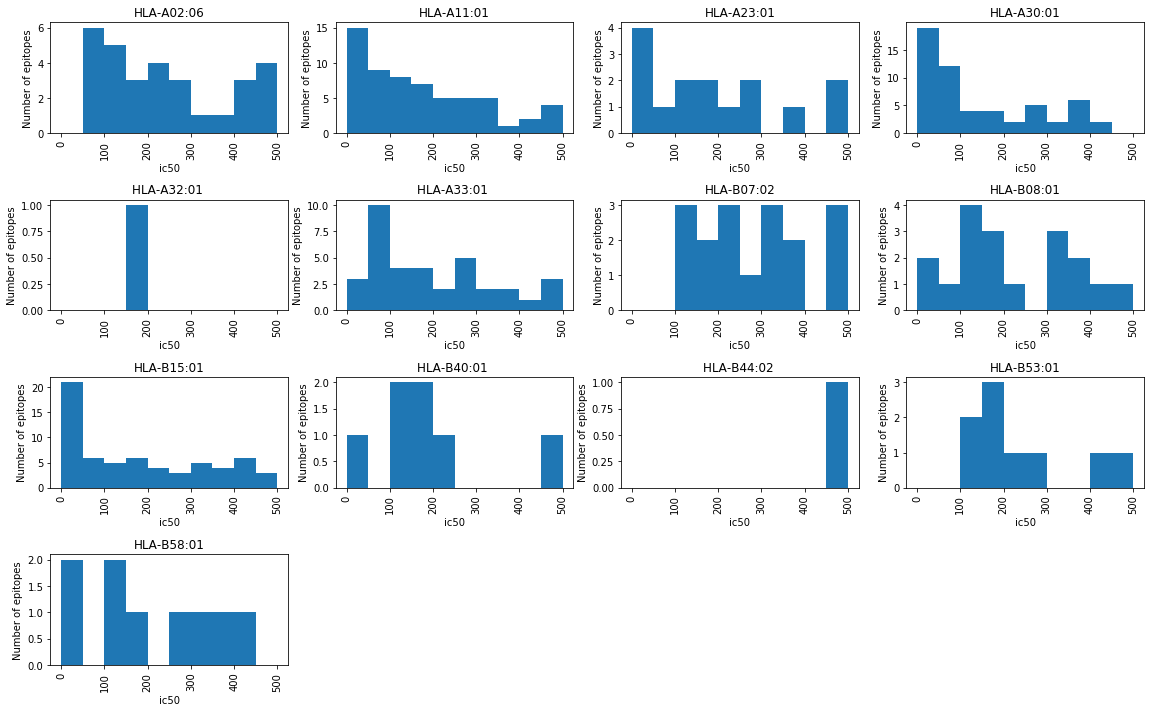
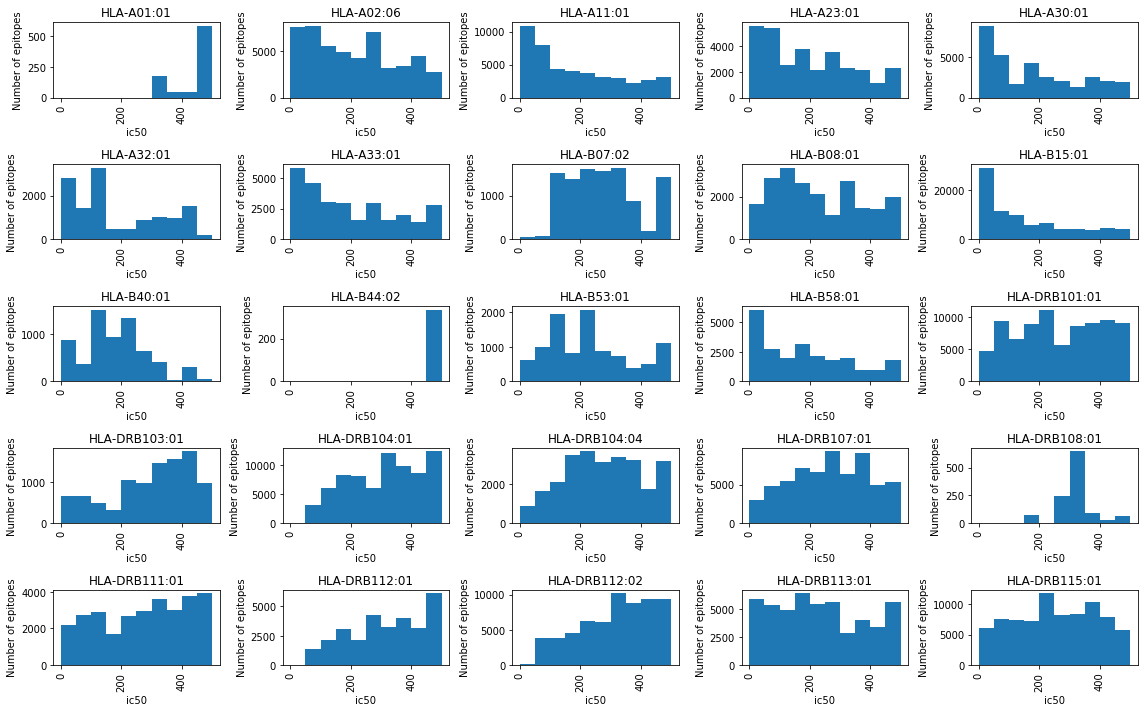
Reworking epitope_analysis and adding conclusive remarks to epitope analysis

diff --git a/report/paper.md b/report/paper.md
@@ -259,19 +259,19 @@ Finally, by using the cosine distance we built a distance tree and inspected the
 As expected SARS-CoV-2 has as nearest neighbours: Pangolin coronavirus [@lam_2020_identifying], SARS-Co-V, and Bat coronavirus. There are not apparent unexpected neighbours, and the most distant species from SARS-CoV-2 is the porcine _Deltacoronavirus_, which actually has been seen as related to SARS-Co-V in a recent study [@boley_2020_porcine]. A possible explanation for this discrepancy could be attributed to the distance metric used in the evaluation of the tree,  which does not incorporate the "importance" of each node in the tree. More studies are needed to explore a more sensible distance metric, and the resulting best phylogenetic trees.
 
 
-## 4.4 Epitope predictions reveal distinct clusters for protein types
+## 4.4 Epitope predictions suggest important variation by HLA allele and viral subunit protein
 
-Out of 3730 sequences of the common corona virus sequences dataset, with an average AA sequence length of 414, MHCnuggets identified 323 epitopes as putative MHC class I binders.
+Out of 3730 sequences of the common corona virus sequences dataset, with an average AA sequence length of 414, MHCnuggets identified 867,231 epitopes as binding (using a theshold of IC50<500).
 
 | ![](../epitope-clustering/plots/allele_epitope_count.png) |
 |:--:|
-| *Number of putative MHC class I binders per allele. Alleles HLA-A*01:01, HLA-A*02:01, HLA-A*02:03, HLA-A*03:01, HLA-A*24:02, HLA-A*26:01, HLA-A*68:02, HLA-B*44:03, HLA-B*35:01, HLA-B*51:01 and HLA-B*57:01 did not have any predicted binders. * |
+| *Number of putative binding epitopes per allele.* |
 
-For the alleles, which have predicted binders, the number of strong and weak binders is not evenly distributed. HLA-B15:01, HLA-A11:01, HLA-A23:01 and HLA-A30:01 seem to contain many strong binders indicating that populations, which cover these specific alleles well may respond strongly to vaccines based on the respective epitopes.
+For the alleles, which have predicted binders, the number of strong and weak binders is not evenly distributed. HLA-B15:01, HLA-A11:01, HLA-A23:01, HLA-A30:01, and HLA-A30:01 seem to contain many strong binders, indicating that populations which cover these specific alleles well may respond strongly to vaccines based on the respective epitopes.
 
 | ![](../epitope-clustering/plots/allele_ic50_distribution.png) |
 |:--:|
-| *ic50 distribution for putative binding MHC class I epitopes per allele.* |
+| *ic50 distribution of putative binding epitopes per allele.* |
 
 The space of predicted epitopes and IC50 values were explored with UMAP clustering. For this purpose, an approach analogous to one hot encoding was used. For each of the original 3730 sequences a vector was generated with length equal to the number of distinct (predicted) allele-epitope pairs. As with one hot encoding, a 0 was used to indicate that a given allele-epitope was not predicted for the sequence. However, instead of using a 1 to indicate the prediction of an allele-epitope pair for a given sequence, the inverse of the IC50 value was used (1/IC50). This was done to include some information about predicted binding affinities. Future work could expand on this by using more direct representations of predicted immunogenicity and screening out epitopes resembling self-peptides.
 
@@ -301,6 +301,10 @@ All utilized methods produced promising results; species and host context are hi
 
 The alignment-free approach shows promising features, including the ability to mirror the standard alignment methods in recognizing the nearest neighbours of a long sequence. The ideal behaviour was to be halfway between the classic phylogenetic trees and new information, and the tree distance used to assess the best model is crucial at this step. The Robinson-Foulds distance may have been too generic to grasp the details needed to be used as an objective function (the best model in this work is the one which minimizes the RF distance), and while _easier_ features are present, like the nearness to SARS-Co-V, bat and pangolin, more subtle similarities are still not caught.
 The reason for this, in our opinion, should be searched in the human made choices (_e.g._ objective functions and hyperparameter search strategies), not in the method itself, which has yielded promising results, mirroring classical results with an alignment-free approach.
+
+## Predicted epitope feature space
+
+The cursory analysis of the feature space of predicted epitopes suggests two salient results. First, it suggests that there is a great deal of variation in immunopresentation by HLA allele. Secondly, it suggests that viral protein subunits have very different degrees of variation in how they are presented, with respect to epitopes and predicted binding affinity. Both of these results, if confirmed, would have profound implications for vaccine design. Further exploration is warranted. Avenues for improvement would include using HLA allele-specific thresholds for binding prediction and removing epitopes with high similarity to known self-peptides.
 
 ## Future work
 
